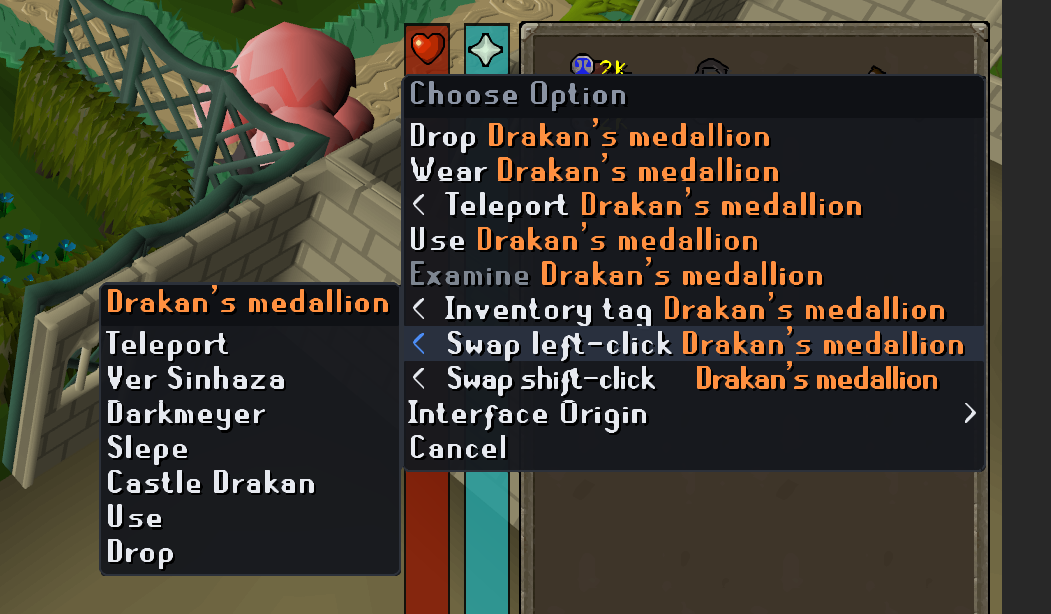
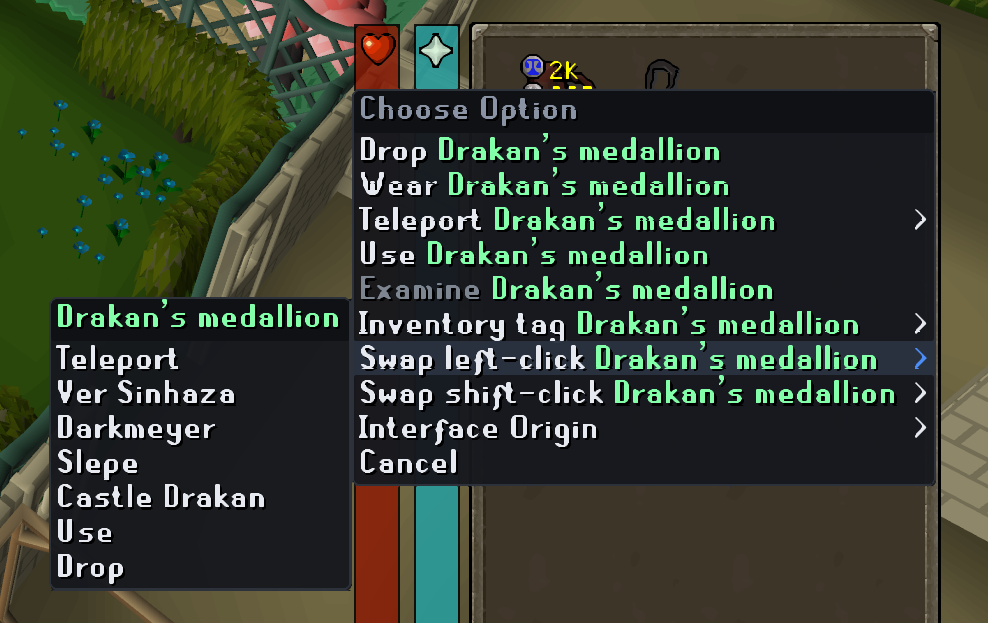
fix: finalise v1.1.0 submenu rendering and item colours

diff --git a/src/main/java/com/rightclickstyler/MenuRenderer.java b/src/main/java/com/rightclickstyler/MenuRenderer.java
@@ -5,6 +5,7 @@ import java.awt.Font;
 import java.awt.FontMetrics;
 import java.awt.Graphics2D;
 import java.awt.Rectangle;
+import java.awt.RenderingHints;
 import java.awt.Shape;
 import java.awt.geom.RoundRectangle2D;
 import java.awt.image.BufferedImage;
@@ -272,6 +273,7 @@ final class MenuRenderer
 				{
 					fitted.translate(startX, 0);
 					fitted.scale((double) available / measured, 1);
+					keepRunScaleProportional(fitted);
 					layoutRow(fitted, row, 0, rowY + rowTextOffsetY, measured, hovered);
 				}
 				finally
@@ -285,11 +287,10 @@ final class MenuRenderer
 			}
 			if (row.hasSubMenu)
 			{
-				boolean left = row.submenuOpensLeft;
-				int arrowX = left ? bounds.x + 9 : bounds.x + bounds.width - 9;
+				int arrowX = bounds.x + bounds.width - 9;
 				int arrowY = rowY + ROW_HEIGHT / 2;
 				graphics.setColor(hovered ? theme.accent : theme.text);
-				int tipX = arrowX + (left ? -4 : 4);
+				int tipX = arrowX + 4;
 				graphics.drawLine(arrowX, arrowY - 4, tipX, arrowY);
 				graphics.drawLine(tipX, arrowY, arrowX, arrowY + 4);
 			}
@@ -298,12 +299,12 @@ final class MenuRenderer
 
 	private int rowStartX(Rectangle bounds, Row row)
 	{
-		return bounds.x + textOffsetX + (row.hasSubMenu && row.submenuOpensLeft ? 16 : 0);
+		return bounds.x + textOffsetX;
 	}
 
 	private int rowMaxX(Rectangle bounds, Row row)
 	{
-		return row.hasSubMenu && !row.submenuOpensLeft
+		return row.hasSubMenu
 			? bounds.x + bounds.width - Math.max(SUBMENU_RIGHT_RESERVE, textOffsetX) - TEXT_SHADOW_OFFSET
 			: plainMaxX(bounds);
 	}
@@ -312,6 +313,20 @@ final class MenuRenderer
 	private int plainMaxX(Rectangle bounds)
 	{
 		return bounds.x + bounds.width - Math.max(TEXT_EDGE_PADDING, textOffsetX) - TEXT_SHADOW_OFFSET;
+	}
+
+	/**
+	 * The RuneScape fonts are pixel fonts whose hinting snaps a horizontally scaled glyph to the
+	 * next whole pixel size, so a fit of even 1px drew every glyph about 6% narrower while each run
+	 * still started at its scaled position, opening gaps between option, target and coloured spans.
+	 * Fractional metrics keep their advances at the scaled measured widths.
+	 */
+	private void keepRunScaleProportional(Graphics2D fitted)
+	{
+		if (!theme.font.isScalable())
+		{
+			fitted.setRenderingHint(RenderingHints.KEY_FRACTIONALMETRICS, RenderingHints.VALUE_FRACTIONALMETRICS_ON);
+		}
 	}
 
 	private static boolean shouldCompress(int available, int measured)
@@ -543,6 +558,7 @@ final class MenuRenderer
 			{
 				fitted.translate(startX, 0);
 				fitted.scale((double) available / measured, 1);
+				keepRunScaleProportional(fitted);
 				layoutHeader(fitted, runs, kind, 0, y);
 			}
 			finally

diff --git a/src/main/java/com/rightclickstyler/MenuOverlay.java b/src/main/java/com/rightclickstyler/MenuOverlay.java
@@ -16,6 +16,8 @@ import net.runelite.api.MenuAction;
 import net.runelite.api.MenuEntry;
 import net.runelite.api.Player;
 import net.runelite.api.Point;
+import net.runelite.api.gameval.InterfaceID;
+import net.runelite.api.widgets.Widget;
 import net.runelite.client.ui.overlay.Overlay;
 import net.runelite.client.ui.overlay.OverlayLayer;
 import net.runelite.client.ui.overlay.OverlayPosition;
@@ -1379,7 +1381,7 @@ class MenuOverlay extends Overlay
 		{
 			return MenuRenderer.TargetKind.OBJECT;
 		}
-		if (isGroundItemAction(type) || entry.getItemId() != NO_ITEM)
+		if (isGroundItemAction(type) || heldItemId(entry) != NO_ITEM)
 		{
 			return MenuRenderer.TargetKind.ITEM;
 		}
@@ -1409,7 +1411,7 @@ class MenuOverlay extends Overlay
 				continue;
 			}
 			MenuRenderer.TargetKind candidateKind = classify(candidate);
-			if (candidateKind == MenuRenderer.TargetKind.ITEM && candidate.getItemId() != NO_ITEM)
+			if (candidateKind == MenuRenderer.TargetKind.ITEM && heldItemId(candidate) != NO_ITEM)
 			{
 				itemOwner = true;
 			}
@@ -1419,6 +1421,50 @@ class MenuOverlay extends Overlay
 			}
 		}
 		return itemOwner ? MenuRenderer.TargetKind.ITEM : own;
+	}
+
+	/**
+	 * Container ops carry their item's id. A worn equipment slot's ops belong to the slot layer,
+	 * which holds no item of its own, so the worn item is read from the slot's item child, as
+	 * RuneLite's Menu Entry Swapper does.
+	 */
+	static int heldItemId(MenuEntry entry)
+	{
+		int itemId = entry.getItemId();
+		MenuAction type = entry.getType();
+		if (itemId != NO_ITEM || (type != MenuAction.CC_OP && type != MenuAction.CC_OP_LOW_PRIORITY))
+		{
+			return itemId;
+		}
+		Widget slot = entry.getWidget();
+		if (slot == null || !isWornEquipmentSlot(slot.getId()))
+		{
+			return NO_ITEM;
+		}
+		Widget item = slot.getChild(1);
+		return item != null && item.getItemId() > NO_ITEM ? item.getItemId() : NO_ITEM;
+	}
+
+	/** The equipment tab's eleven worn slots; its buttons and other components are not items. */
+	static boolean isWornEquipmentSlot(int componentId)
+	{
+		switch (componentId)
+		{
+			case InterfaceID.Wornitems.SLOT0:
+			case InterfaceID.Wornitems.SLOT1:
+			case InterfaceID.Wornitems.SLOT2:
+			case InterfaceID.Wornitems.SLOT3:
+			case InterfaceID.Wornitems.SLOT4:
+			case InterfaceID.Wornitems.SLOT5:
+			case InterfaceID.Wornitems.SLOT7:
+			case InterfaceID.Wornitems.SLOT9:
+			case InterfaceID.Wornitems.SLOT10:
+			case InterfaceID.Wornitems.SLOT12:
+			case InterfaceID.Wornitems.SLOT13:
+				return true;
+			default:
+				return false;
+		}
 	}
 
 	static boolean isGameObjectAction(MenuAction type)

diff --git a/CHANGELOG.md b/CHANGELOG.md
@@ -21,7 +21,10 @@
 ### Fixed
 
 - Item target colours in submenu headers and copied inventory submenu entries.
-- Menu header alignment and text fitting, and submenu arrow positioning.
+- Menu header alignment and text fitting.
+- Submenu arrows are always right-aligned, and rows whose submenu opens to the left keep the same text alignment as other rows.
+- Uneven gaps between option, target and coloured text when a RuneScape-font row is narrowed to fit the native menu width.
+- Custom Item target colours for worn items in the Equipment tab, including actions in their submenus.
 
 ### Compatibility
 
@@ -33,7 +36,8 @@
 
 - Exceptionally large menus may reduce FPS while open.
 - Some third-party visuals, including ground-item icons, are not reproduced by the styled renderer.
-- The macOS Unicode rendering issue remains unresolved.
+- macOS symbol rendering is unconfirmed. The built-in theme lock, which macOS showed as a missing-character box, is now drawn as an icon, but this release has been tested only on Windows.
+- Reported inconsistencies with Inventory Setups potion withdrawals, the Max cape and fairy rings have not been confirmed as fixed.
 - Submenus use native styling when their draw cannot be verified.
 
 ## [1.0.0] — 2026-11-16
